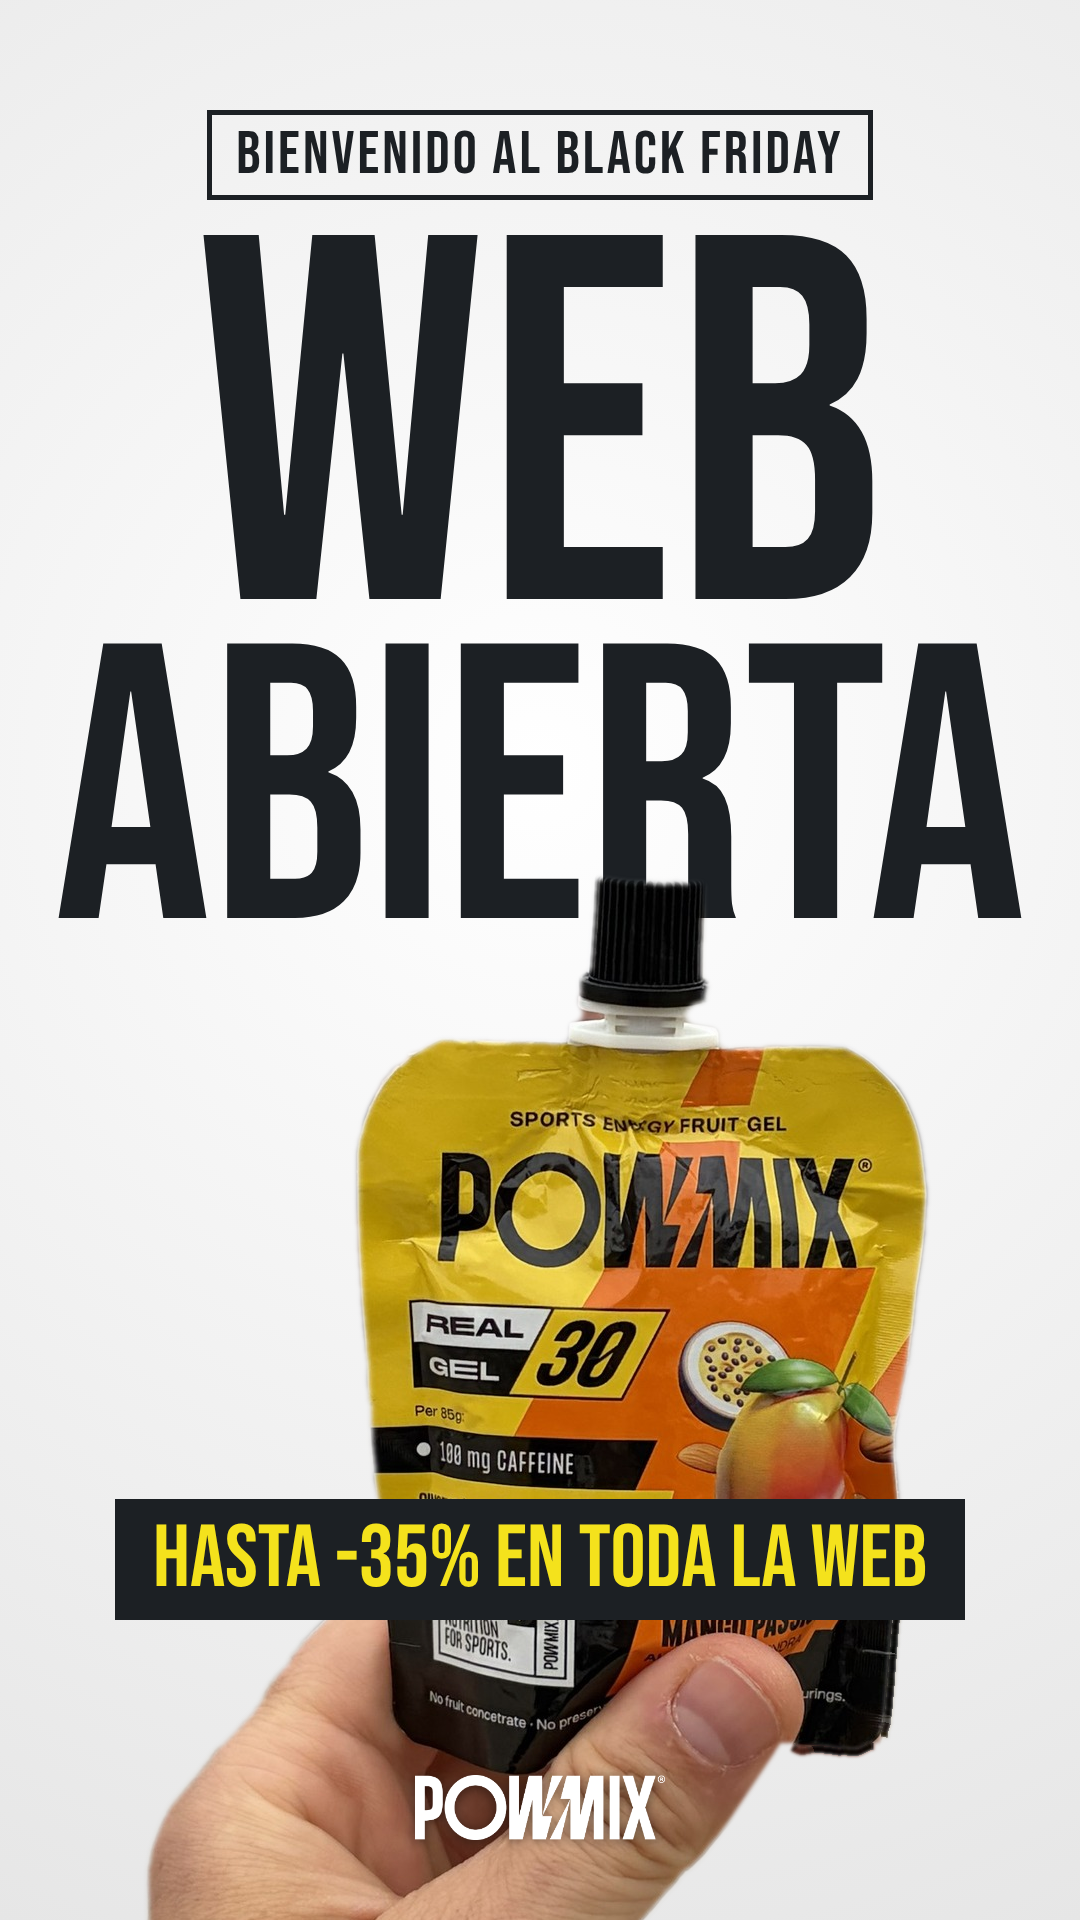
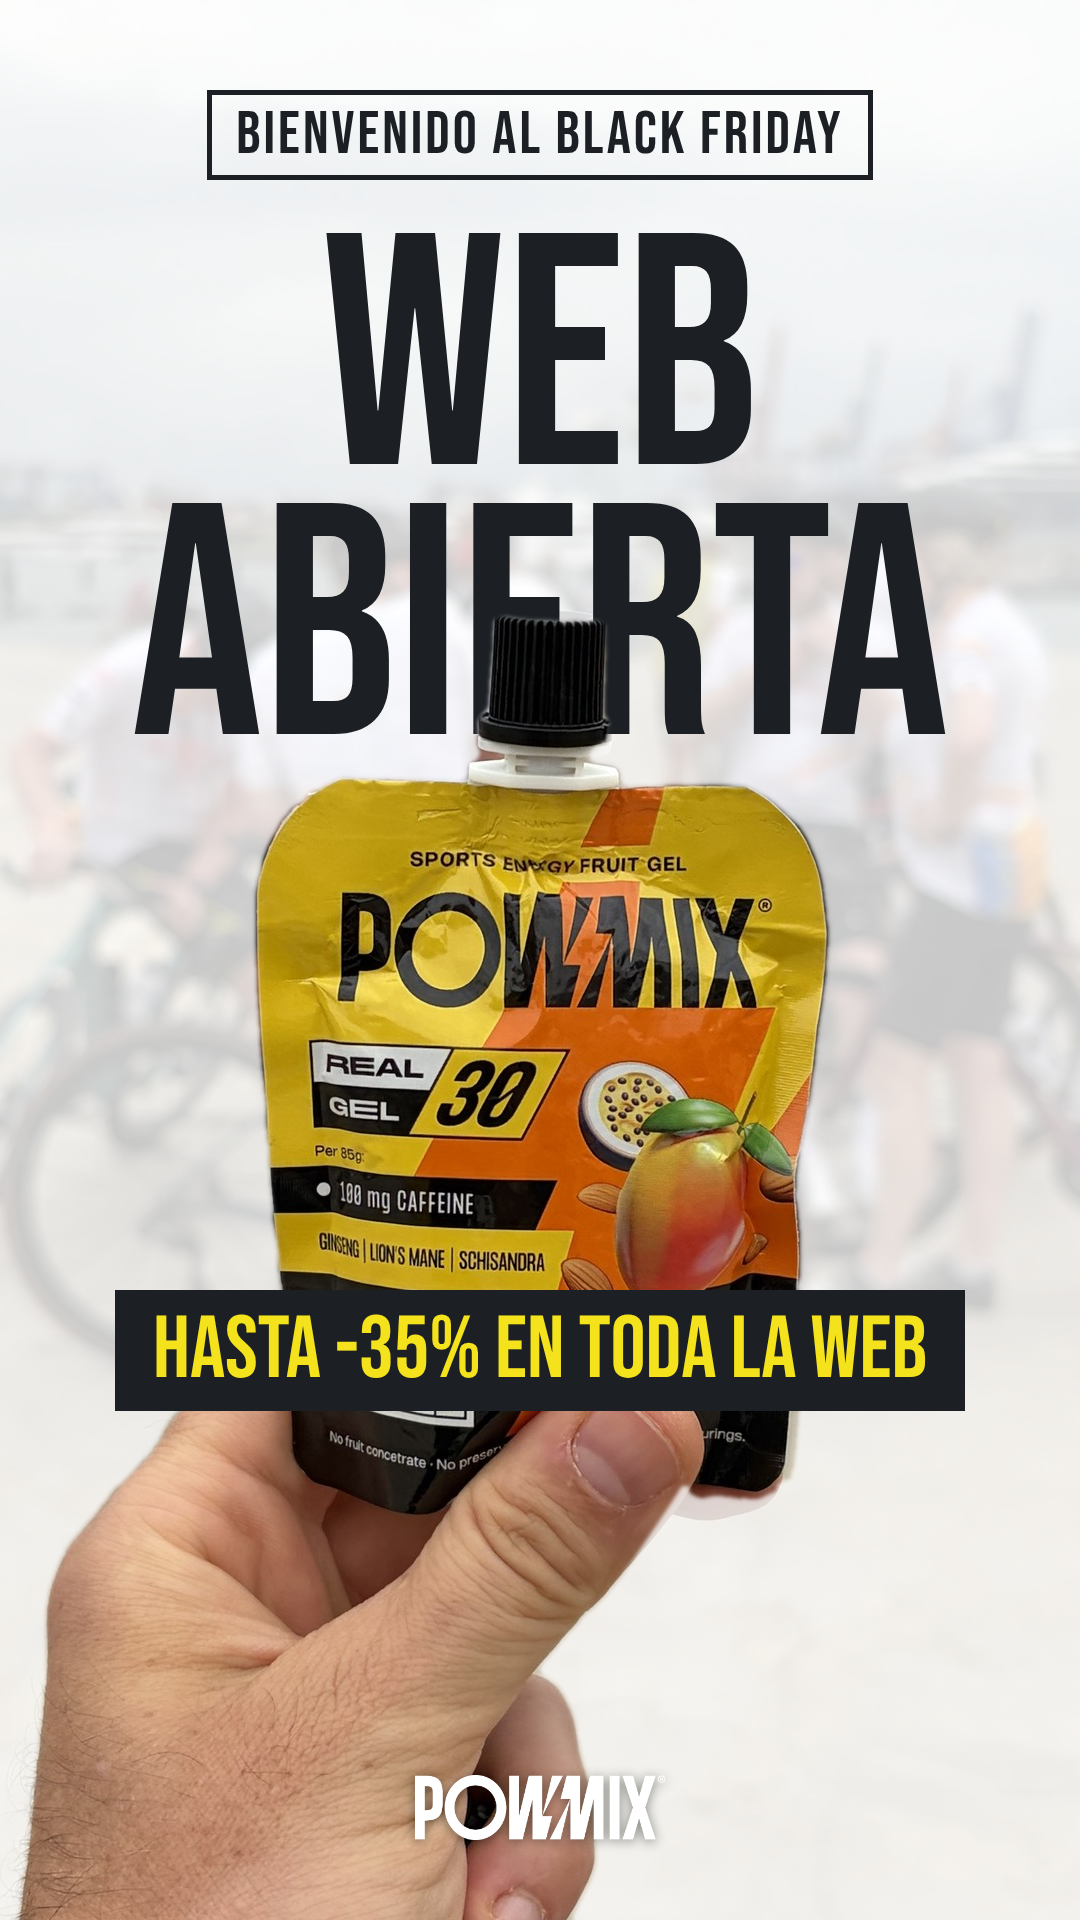
Story 2: faded original background with sharp gel

diff --git a/stories_bf/bf7.html b/stories_bf/bf7.html
@@ -1,0 +1,53 @@
+<!doctype html><html><head><meta charset="utf-8"><style>
+@font-face{font-family:Bebas;src:url(bebas.woff2)}
+*{margin:0;box-sizing:border-box}
+body{background:#222}
+.s{width:1080px;height:1920px;position:relative;overflow:hidden;font-family:Bebas,sans-serif;color:#1c2024}
+.ph{position:absolute;top:0;height:1920px;width:1440px}
+.sh{position:absolute;inset:0}.bl{position:absolute;inset:-60px;width:calc(100% + 120px);height:calc(100% + 120px);object-fit:cover;filter:blur(40px) brightness(.85)}.fd{-webkit-mask-image:linear-gradient(transparent 0,#000 140px);mask-image:linear-gradient(transparent 0,#000 140px)}
+.t{position:absolute;left:0;right:0;text-align:center;color:#f4e21c;line-height:.82;white-space:nowrap}
+.logo{position:absolute;bottom:80px;left:0;right:0;display:flex;justify-content:center;z-index:9}.logo img{width:250px}
+.f{position:absolute;left:0;right:0;display:flex;flex-direction:column;align-items:center;z-index:5}
+.bar{background:#1c2024;color:#f4e21c;font-size:88px;padding:8px 38px;white-space:nowrap}
+.yb{background:#f4e21c;color:#1c2024;font-size:88px;padding:8px 38px;white-space:nowrap}
+.tag{font-size:60px;letter-spacing:3px;border:5px solid currentColor;padding:4px 24px}
+.sm{font-size:60px;letter-spacing:3px;line-height:1}
+</style></head><body>
+
+<div class="s" id="s1">
+ <img class="ph" src="bg4.jpg" style="left:-60px;top:0">
+ <div class="f" style="top:1180px;gap:18px">
+  <div class="bar" style="font-size:236px;padding:0 34px;line-height:.9;padding-top:14px">BLACK FRIDAY</div>
+  <div class="yb" style="font-size:118px;padding:2px 30px 0">YA ESTÁ AQUÍ</div>
+ </div>
+ <div class="logo"><img src="logo.png" style="filter:invert(1) drop-shadow(0 2px 8px rgba(0,0,0,.5))"></div>
+</div>
+
+<div class="s" id="s2">
+ <img class="ph" src="bg2.jpg" style="left:-230px;top:0;width:1440px;height:1920px">
+ <div class="sh" style="background:rgba(255,255,255,.78)"></div>
+ <div class="f" style="top:90px"><div class="tag" style="color:#1c2024">BIENVENIDO AL BLACK FRIDAY</div></div>
+ <div class="t" style="top:230px;font-size:330px;color:#1c2024">WEB</div>
+ <div class="t" style="top:500px;font-size:330px;color:#1c2024">ABIERTA</div>
+ <img class="ph" src="cut2g.png" style="left:-230px;top:0;width:1440px;height:1920px">
+ <div class="f" style="top:1290px"><div class="bar">HASTA -35% EN TODA LA WEB</div></div>
+ <div class="logo"><img src="logo.png" style="filter:invert(1) drop-shadow(0 2px 6px rgba(0,0,0,.45))"></div>
+</div>
+
+<div class="s" id="s3">
+ <img class="ph" src="bg3.jpg" style="left:-150px"><div class="sh" style="background:linear-gradient(rgba(10,10,10,.5),rgba(10,10,10,.15))"></div>
+ <div class="t" style="top:60px;font-size:230px">HASTA</div>
+ <div class="t" style="top:230px;font-size:640px">-35%</div>
+ <img class="ph" src="cut3.png" style="left:-150px">
+ <div class="f" style="bottom:330px"><div class="yb">EN TODA LA WEB</div><div class="tag" style="color:#fff;margin-top:34px;font-size:52px">EL GEL QUE ELIGES SÍ QUE IMPORTA</div></div>
+ <div class="logo"><img src="logo.png" style="filter:invert(1)"></div>
+</div>
+
+<div class="s" id="s4">
+ <img class="ph" src="bg1.jpg" style="left:-250px;top:0;width:1440px;height:1920px">
+ <div class="t" style="top:40px;font-size:190px;text-align:left;padding-left:36px;line-height:.84;color:#fff;text-shadow:0 3px 14px rgba(0,0,0,.35)">¿TE LO<br>VAS A<br>PERDER?</div>
+ <img class="ph" src="cut1h.png" style="left:-250px;top:0;width:1440px;height:1920px">
+ <div class="f" style="bottom:330px"><div class="yb">HASTA -35% YA EN LA WEB</div></div>
+ <div class="logo"><img src="logo.png" style="filter:invert(1) drop-shadow(0 2px 8px rgba(0,0,0,.5))"></div>
+</div>
+</body></html>
